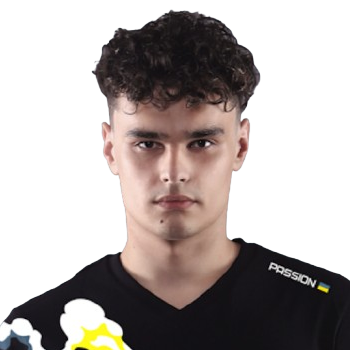
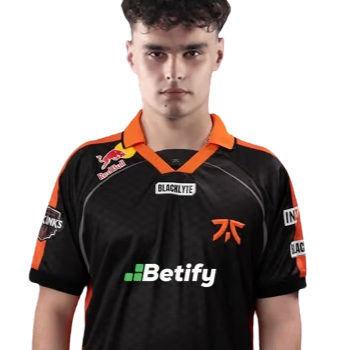
1.1.0 | Update players, set database to mysql, footer & gitignore update

diff --git a/public/styles/index.css b/public/styles/index.css
@@ -276,17 +276,26 @@ footer .footer-li {
     list-style: none;
 }
 
-footer #social-link, #contact {
+footer .social-link, #contact {
     color: white;
     text-decoration: none;
     transition: 1s;
 }
 
-footer #social-link:hover, #contact:hover {
+footer .social-link:hover, #contact:hover {
     color: #FF5800;
 }
 
 /* RESPONSIVE */
+
+@media screen and (max-width: 1000px) {
+
+    footer {
+        font-size: 0.8rem;
+        height: 30px;
+    }
+
+}
 
 @media screen and (max-width: 855px) {
 
@@ -318,11 +327,6 @@ footer #social-link:hover, #contact:hover {
 
     main td div {
         font-size: 1.5rem;
-    }
-
-    footer {
-        font-size: 1rem;
-        height: 30px;
     }
 
 }
@@ -394,6 +398,14 @@ footer #social-link:hover, #contact:hover {
 
     main td div {
         font-size: 1.25rem;
+    }
+
+}
+
+@media screen and (max-width: 600px) {
+
+    footer {
+        font-size: 0.65rem;
     }
 
 }
@@ -487,6 +499,14 @@ footer #social-link:hover, #contact:hover {
 
 }
 
+@media screen and (max-width: 500px) {
+
+    footer {
+        font-size: 0.6rem;
+    }
+
+}
+
 @media screen and (max-width: 450px) {
 
     main {
@@ -532,8 +552,7 @@ footer #social-link:hover, #contact:hover {
     }
 
     footer {
-        font-size: 0.75rem;
-        height: 20px;
+        font-size: 0.45rem;
     }
 
 }

diff --git a/src/config/db.js b/src/config/db.js
@@ -1,19 +1,19 @@
 const mysql = require('mysql2');
 
-const db = mysql.createConnection({
+const db = mysql.createPool({
     host: process.env.DB_HOST,
     user: process.env.DB_USER,
     password: process.env.DB_PASSWORD,
     database: process.env.DB_DATABASE
 });
 
-db.connect((err) => {
-    if (err) {
-        console.error(`<${new Date().toUTCString()}> Could not connect to database => [${err}]`);
-        return;
-    } else {
-        console.log(`<${new Date().toUTCString()}> Connected to database`);
-    }
-});
+// db.connect((err) => {
+//     if (err) {
+//         console.error(`<${new Date().toUTCString()}> Could not connect to database => [${err}]`);
+//         return;
+//     } else {
+//         console.log(`<${new Date().toUTCString()}> Connected to database`);
+//     }
+// });
 
 module.exports = db;

diff --git a/public/index.html b/public/index.html
@@ -41,7 +41,7 @@
         </main>
 
         <footer>
-            <div>Made by <a href="https://github.com/TAKOS-34" target="_blank" id="social-link">TAKOS</a> | <a href="mailto:contact@fnaticdle.com" id="contact">Contact me</a> | Not affilied with FNATIC</div>
+            <div>Made by <a href="https://x.com/takos____" target="_blank" class="social-link">TAKOS</a> | <a href="mailto:contact@fnaticdle.com" id="contact">Contact me</a> | <a href="https://github.com/TAKOS-34/fnaticdle" target="_blank" class="social-link">Source code</a>  | Last update : 2025 / 05 / 02 | Not affilied with FNATIC</div>
         </footer>
 
     </div>
